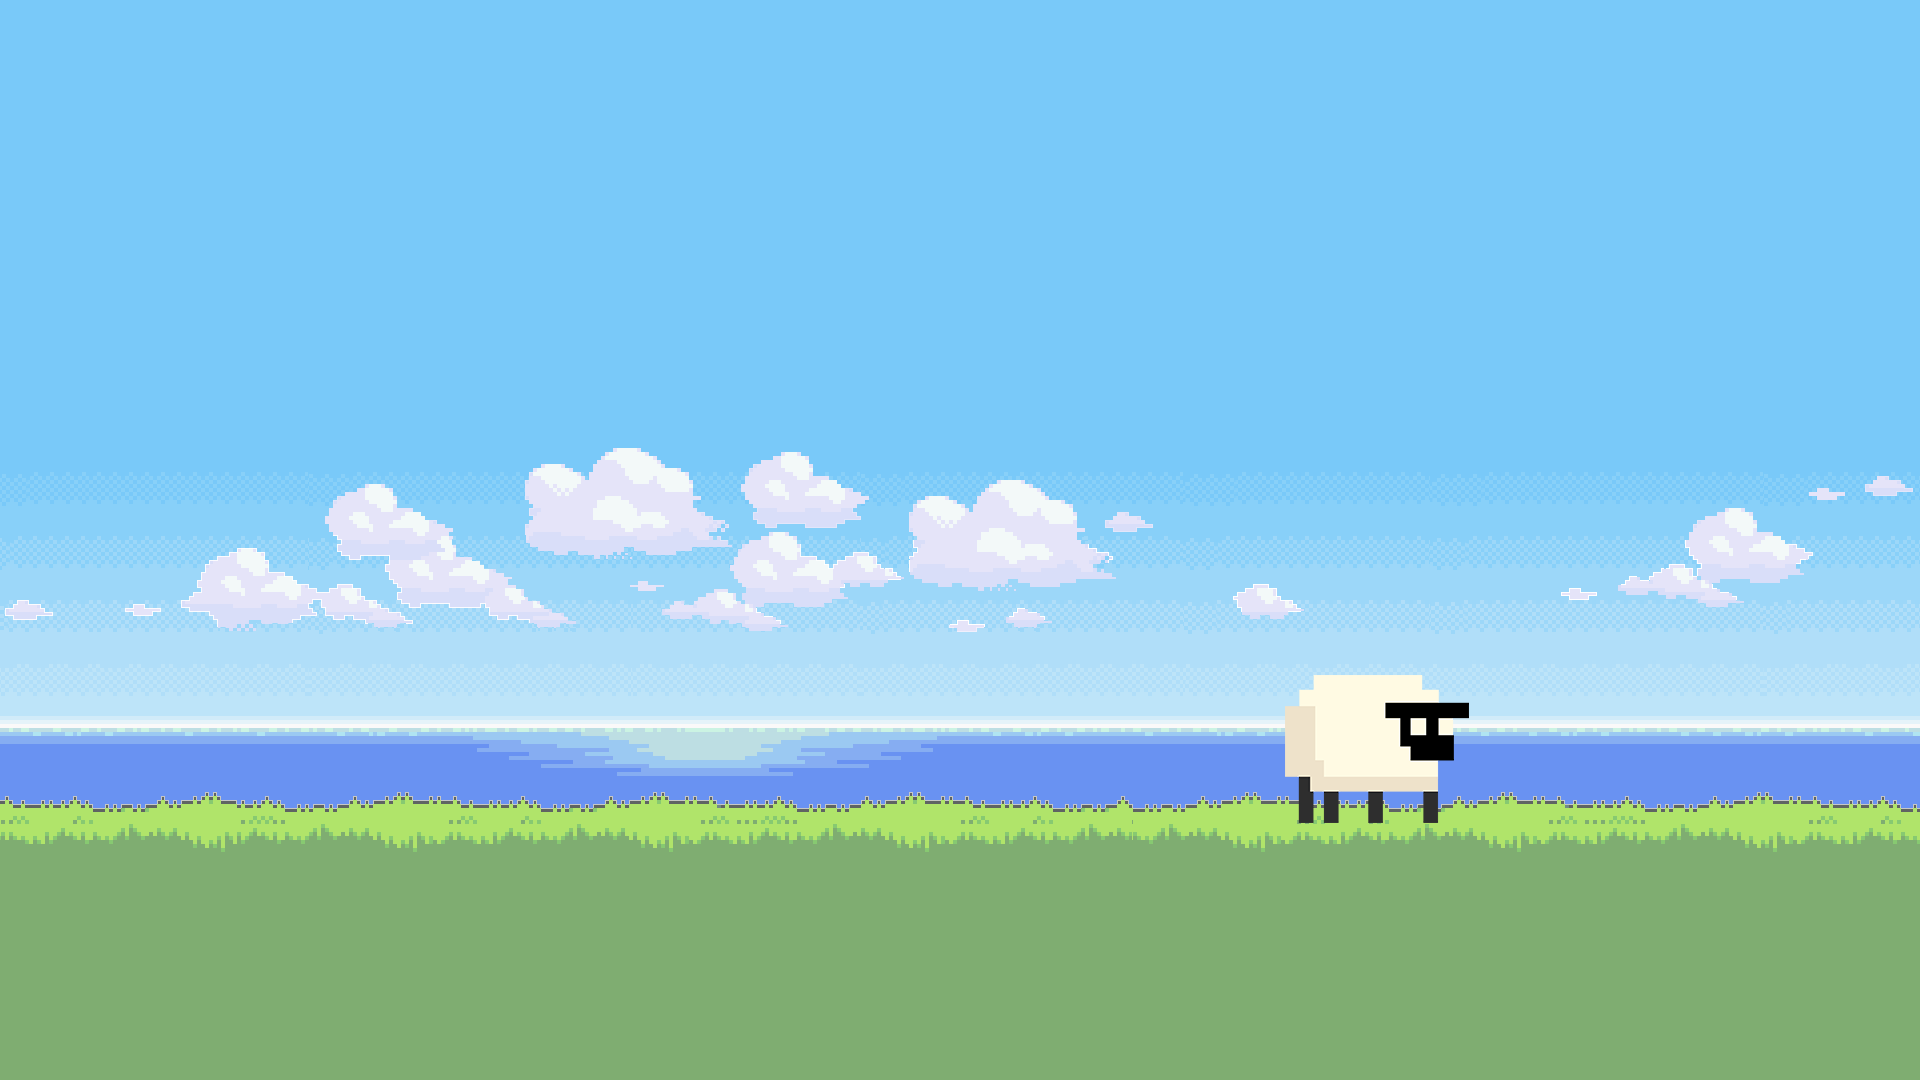
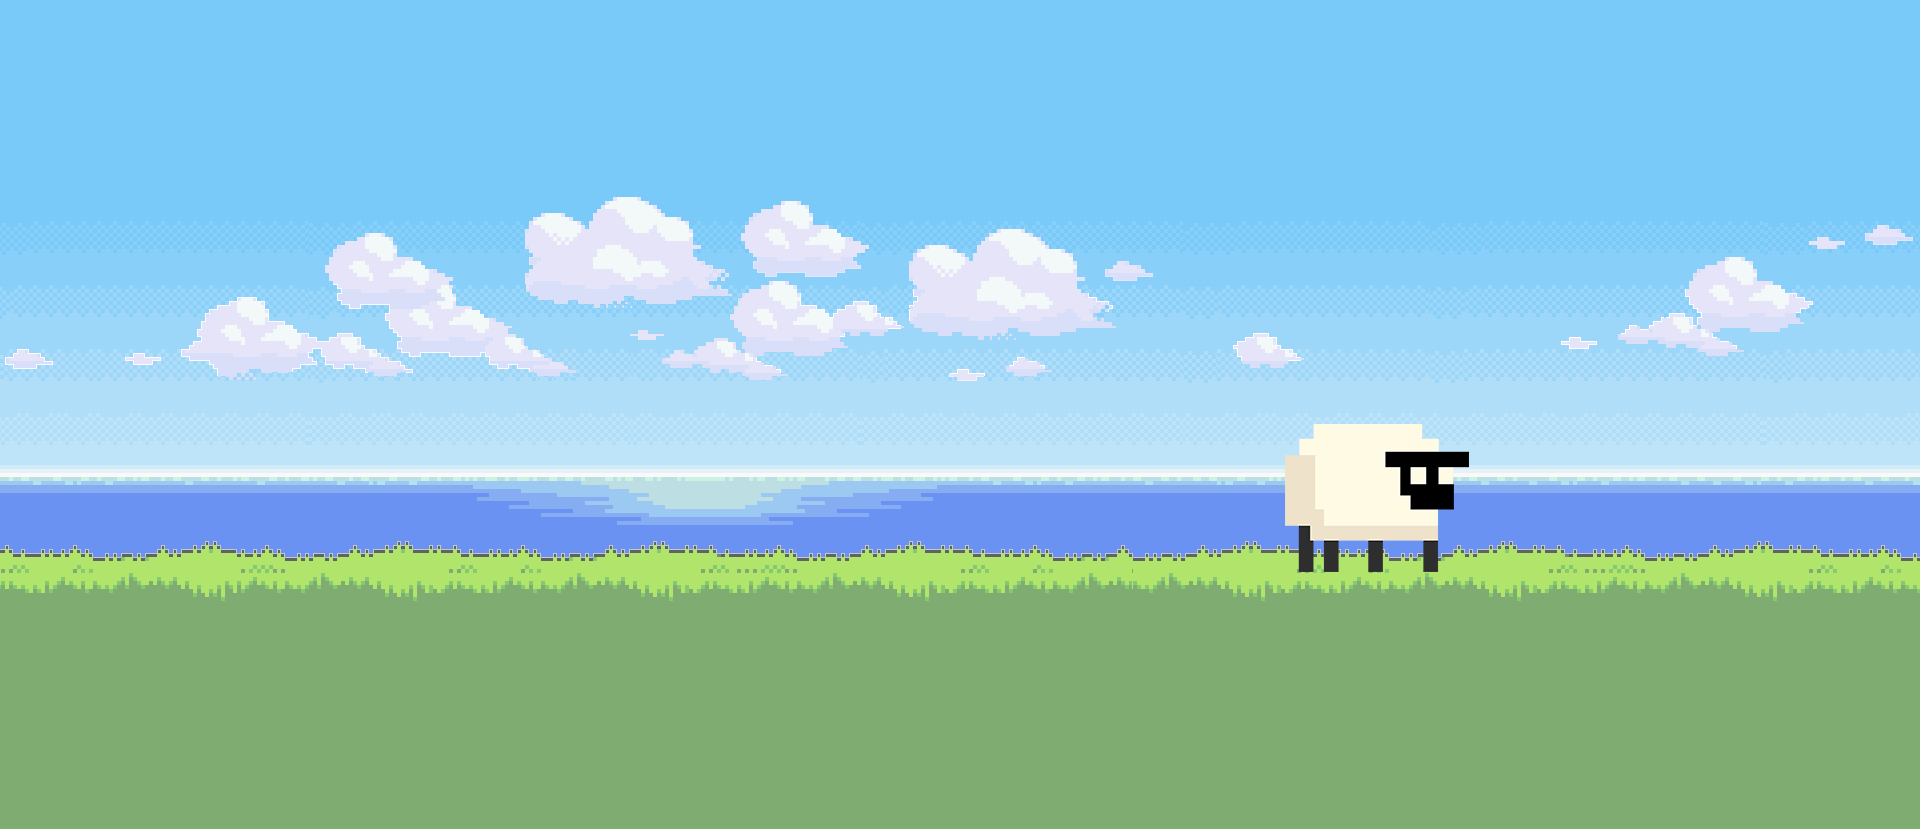
fixed header size

diff --git a/css/landing-page.css b/css/landing-page.css
@@ -21,7 +21,7 @@ h6 {
 header.masthead {
   position: relative;
   background-color: #343a40;
-  background: url("../img/header.png") no-repeat center center;
+  background: url("../img/header2.png") no-repeat center center;
   background-size: cover;
   padding-top: 8rem;
   padding-bottom: 8rem;
